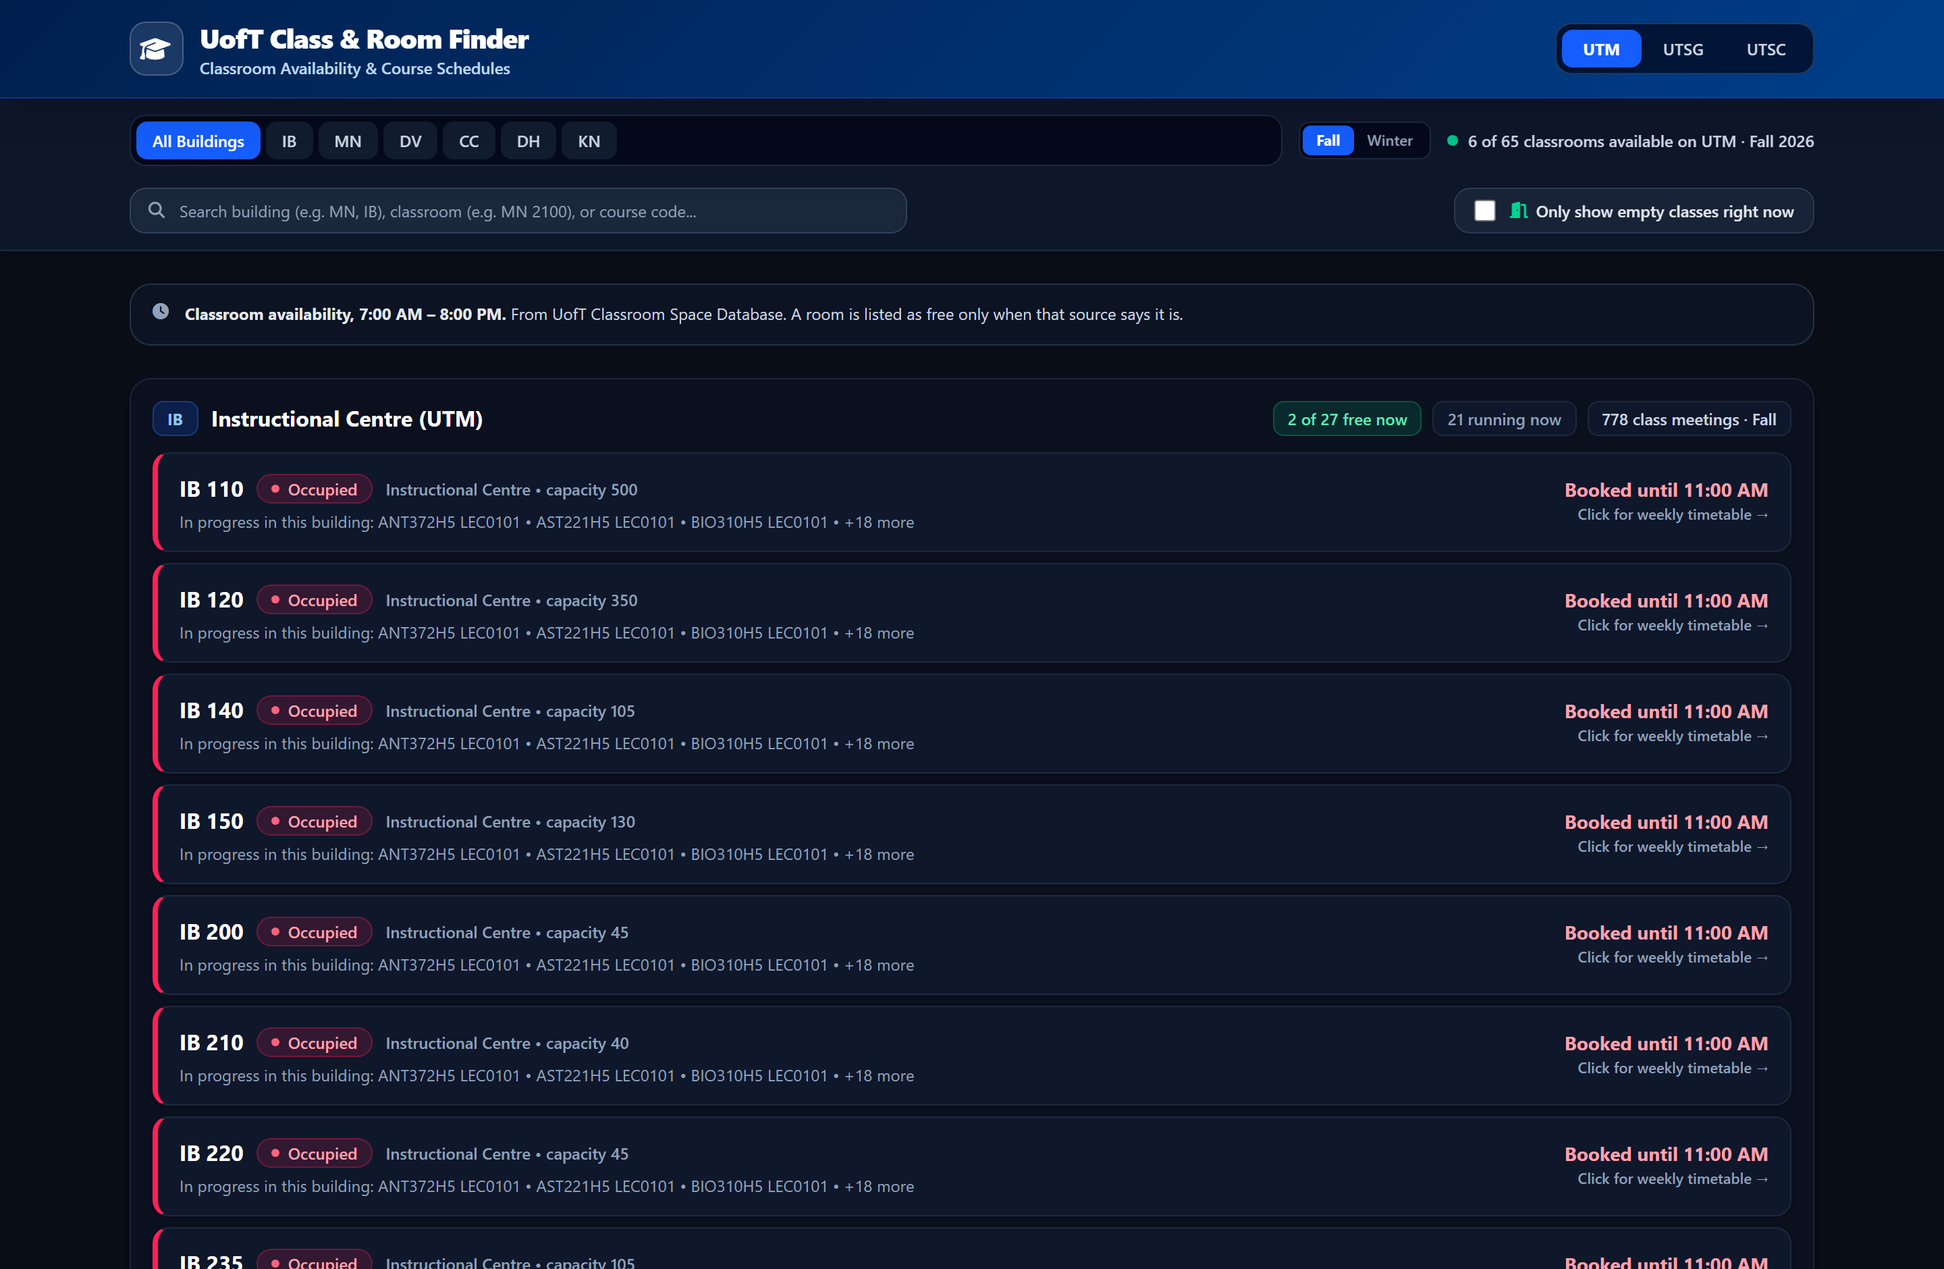
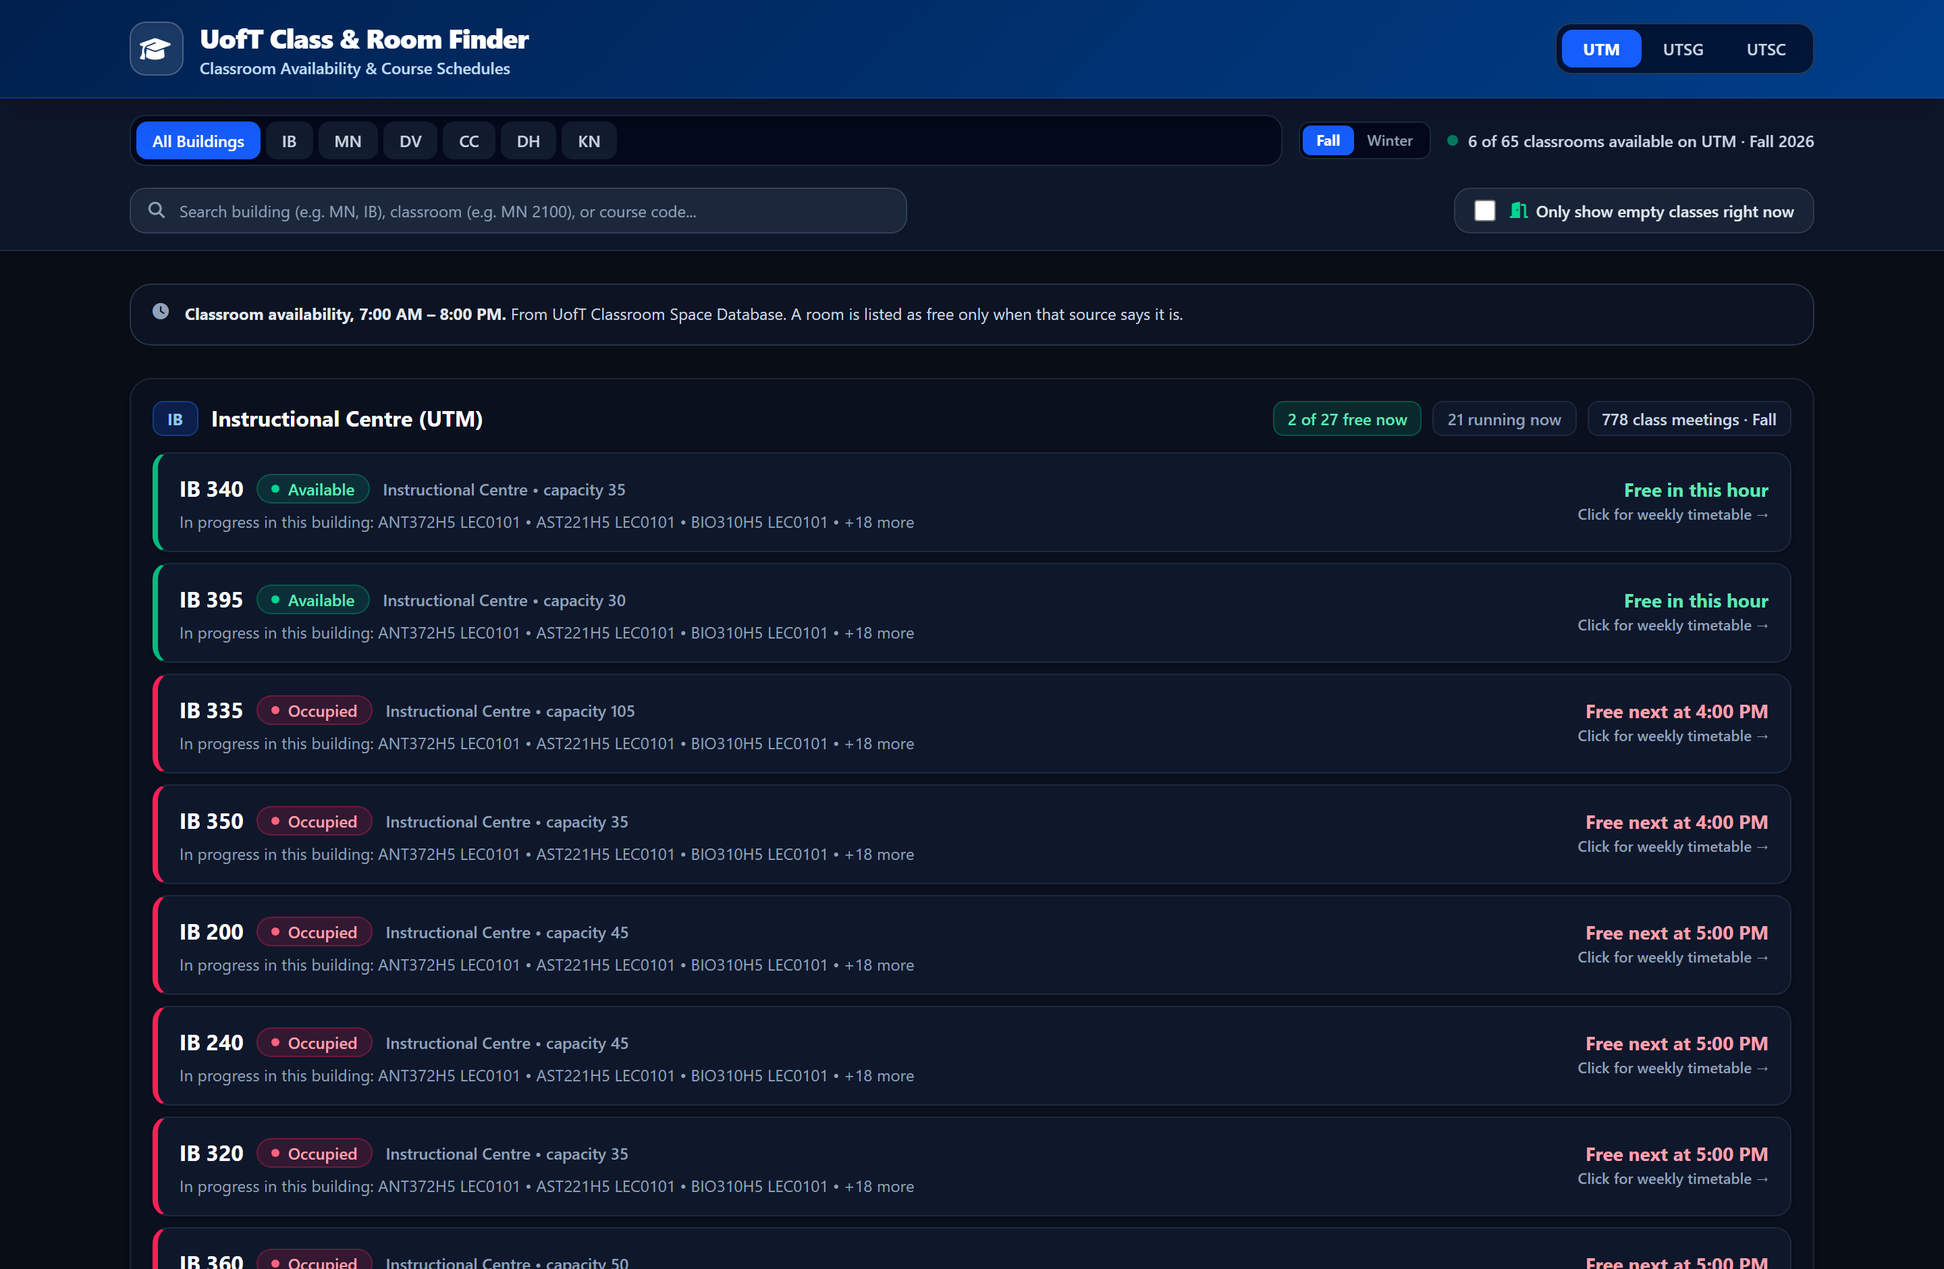
feat: say when a room is free next, and order the rooms by it
"Booked until 11:00 AM" was wrong. It named the end of the current hour,
not the time the room actually frees: a room booked from ten until one
read as though it were free at eleven. The occupancy is published hour by
hour, so the time the room is free again is known, and it is the useful
one - it is how long a student waits.

A busy room now says "Free next at 4:00 PM", and a room with no free hour
left in the day says so rather than naming a time that never comes.

The rooms are ordered by the same fact: the one that is free now comes
first, then the one that frees soonest, then the rooms with no known free
hour left in the day. The sort is stable, so rooms that free at the same
time keep their order.

The scan steps over hours the snapshot does not carry rather than claiming
them: an hour the source says nothing about is unknown, and unknown is
never free.

121 tests: 47 pytest, 53 Vitest, 21 Playwright.

diff --git a/src/components/lib/schedule.ts b/src/components/lib/schedule.ts
@@ -277,6 +277,33 @@ export function roomStateAt(
   return busy ? "busy" : "free";
 }
 
+/**
+ * The next hour, at or after `hour`, in which the room is known to be free.
+ *
+ * The occupancy is published hour by hour, so a room that is not listed as
+ * free in an hour is booked in it. The scan stays inside the day the
+ * snapshot covers, and it steps over hours the snapshot does not carry:
+ * an hour the source says nothing about is unknown, and unknown is never
+ * free.
+ */
+export function nextFreeHourAt(
+  room: Room,
+  day: number,
+  hour: number,
+): number | null {
+  const hours = room.occupancy?.[String(day)];
+  if (!hours) return null;
+  const published = Object.keys(hours)
+    .map(Number)
+    .filter((value) => Number.isFinite(value))
+    .sort((a, b) => a - b);
+  for (const candidate of published) {
+    if (candidate < hour) continue;
+    if (hours[String(candidate)] === false) return candidate;
+  }
+  return null;
+}
+
 export function roomStatusAt(
   room: Room,
   ctx: TimeContext,
@@ -291,17 +318,33 @@ export function roomStatusAt(
       nextFreeText: "Not published",
       subText: "This hour is outside the space database snapshot",
       busyUntil: null,
+      nextFreeAt: null,
     };
   }
 
   if (state === "busy") {
-    const busyUntil = minutesToTime((hour + 1) * 60);
+    // The hour ending is not the same thing as the room becoming free: a
+    // room booked from nine to one is not free at ten. The time the room
+    // is actually free again is the useful one.
+    const freeHour = nextFreeHourAt(room, ctx.uoftDay, hour);
+    if (freeHour === null) {
+      return {
+        state,
+        statusTitle: "Occupied",
+        nextFreeText: "No free hour left today",
+        subText: "The room is booked for every hour the source publishes today",
+        busyUntil: null,
+        nextFreeAt: null,
+      };
+    }
+    const freeAt = minutesToTime(freeHour * 60);
     return {
       state,
       statusTitle: "Occupied",
-      nextFreeText: `Booked until ${format12Hour(busyUntil)}`,
+      nextFreeText: `Free next at ${format12Hour(freeAt)}`,
       subText: "The room is not listed as available in this hour",
-      busyUntil,
+      busyUntil: freeAt,
+      nextFreeAt: freeHour * 60,
     };
   }
 
@@ -311,7 +354,26 @@ export function roomStatusAt(
     nextFreeText: "Free in this hour",
     subText: "The room is listed as available in this hour",
     busyUntil: null,
+    nextFreeAt: hour * 60,
   };
+}
+
+/**
+ * The rooms, the one that frees soonest first.
+ *
+ * A room that is free now comes first, then the room that becomes free
+ * soonest, then the rooms with no known free hour left in the day. The
+ * sort is stable, so rooms that free at the same time keep their order.
+ */
+export function sortRoomsByNextFree(rooms: Room[], ctx: TimeContext): Room[] {
+  return [...rooms].sort((a, b) => {
+    const left = roomStatusAt(a, ctx).nextFreeAt;
+    const right = roomStatusAt(b, ctx).nextFreeAt;
+    if (left === null && right === null) return 0;
+    if (left === null) return 1;
+    if (right === null) return -1;
+    return left - right;
+  });
 }
 
 /** The next class scheduled in a building, for the given day. */

diff --git a/tests/unit/schedule.test.ts b/tests/unit/schedule.test.ts
@@ -18,10 +18,11 @@ import {
   roomStateAt,
   roomStatusAt,
   searchCourseCodes,
+  sortRoomsByNextFree,
   termOfSession,
   timeToMinutes,
 } from "@/components/lib/schedule";
-import { sampleClasses, sampleRooms } from "../fixtures/sample-dataset";
+import { makeRoom, sampleClasses, sampleRooms } from "../fixtures/sample-dataset";
 
 describe("time helpers", () => {
   it("converts a clock time to minutes", () => {
@@ -200,6 +201,64 @@ describe("room availability", () => {
     expect(status.state).toBe("unknown");
     expect(status.statusTitle).toBe("Unknown");
     expect(status.nextFreeText).toMatch(/not published/i);
+  });
+
+  it("says when a busy room is free next, not merely when the hour ends", () => {
+    // Booked from 09:00 through 13:00, free from 14:00.
+    const booked = makeRoom({
+      occupancy: {
+        1: { 9: true, 10: true, 11: true, 12: true, 13: true, 14: false },
+      },
+    });
+    const status = roomStatusAt(
+      booked,
+      getLiveTimeContext(new Date(2026, 9, 19, 9, 0)),
+    );
+    expect(status.state).toBe("busy");
+    expect(status.nextFreeText).toBe("Free next at 2:00 PM");
+    expect(status.nextFreeAt).toBe(14 * 60);
+  });
+
+  it("says so when a busy room has no free hour left in the day", () => {
+    const booked = makeRoom({
+      occupancy: { 1: { 9: true, 10: true, 11: true } },
+    });
+    const status = roomStatusAt(
+      booked,
+      getLiveTimeContext(new Date(2026, 9, 19, 9, 0)),
+    );
+    expect(status.nextFreeText).toMatch(/no free hour/i);
+    expect(status.nextFreeAt).toBeNull();
+  });
+
+  it("puts the room that frees soonest first", () => {
+    const rooms = [
+      makeRoom({ room: "MN 3000", occupancy: { 1: { 9: true, 10: true, 16: false } } }),
+      makeRoom({ room: "MN 2000", occupancy: { 1: { 9: true, 10: false } } }),
+      makeRoom({ room: "MN 4000", occupancy: { 1: { 9: false, 10: false } } }),
+    ];
+    const sorted = sortRoomsByNextFree(
+      rooms,
+      getLiveTimeContext(new Date(2026, 9, 19, 9, 0)),
+    );
+    // Free now, then free at 10:00, then free at 16:00.
+    expect(sorted.map((room) => room.room)).toEqual([
+      "MN 4000",
+      "MN 2000",
+      "MN 3000",
+    ]);
+  });
+
+  it("puts a room with no known free hour last", () => {
+    const rooms = [
+      makeRoom({ room: "MN 3000", occupancy: { 1: { 9: true, 10: true } } }),
+      makeRoom({ room: "MN 2000", occupancy: { 1: { 9: false, 10: false } } }),
+    ];
+    const sorted = sortRoomsByNextFree(
+      rooms,
+      getLiveTimeContext(new Date(2026, 9, 19, 9, 0)),
+    );
+    expect(sorted.map((room) => room.room)).toEqual(["MN 2000", "MN 3000"]);
   });
 });
 

diff --git a/tests/e2e/app.spec.ts b/tests/e2e/app.spec.ts
@@ -62,6 +62,23 @@ test.describe("class & room finder", () => {
     await expect(page.getByText(/Room: MN \d/)).toHaveCount(0);
   });
 
+  test("the rooms that free soonest come first, and say when they free", async ({
+    page,
+  }) => {
+    await page.clock.setFixedTime(new Date("2026-10-19T10:00:00"));
+    await page.goto("/");
+
+    // The two Instructional Centre rooms that are free at 10:00 come
+    // before the ones that are booked.
+    const rooms = page.locator("button").filter({ hasText: /^IB \d+/ });
+    await expect(rooms.first()).toContainText(/IB 340|IB 395/);
+
+    // A booked room says when it is free again, not merely when the hour
+    // ends: IB 335 is booked from 10:00 and free from 16:00.
+    await expect(page.getByText("Free next at 4:00 PM").first()).toBeVisible();
+    await expect(page.getByText(/Booked until/i)).toHaveCount(0);
+  });
+
   test("St. George lists the classrooms the University publishes", async ({
     page,
   }) => {

diff --git a/tests/fixtures/sample-dataset.ts b/tests/fixtures/sample-dataset.ts
@@ -24,7 +24,8 @@ function meeting(overrides: Partial<ClassMeeting> = {}): ClassMeeting {
   };
 }
 
-function room(overrides: Partial<Room> = {}): Room {
+/** Builds a UTM classroom, for the tests that need a specific occupancy. */
+export function makeRoom(overrides: Partial<Room> = {}): Room {
   return {
     room: "MN 2100",
     building: "MN",
@@ -92,9 +93,9 @@ export const sampleDatasets: Record<string, Dataset> = {
       weekEnd: "2026-10-23",
     },
     rooms: [
-      room(),
-      room({ room: "MN 3200", occupancy: { 1: { 9: false, 12: false } } }),
-      room({ room: "IB 379", building: "IB", buildingName: "Instructional Centre" }),
+      makeRoom(),
+      makeRoom({ room: "MN 3200", occupancy: { 1: { 9: false, 12: false } } }),
+      makeRoom({ room: "IB 379", building: "IB", buildingName: "Instructional Centre" }),
     ],
     classes: [
       meeting(),

diff --git a/src/components/ClassFinder.tsx b/src/components/ClassFinder.tsx
@@ -16,6 +16,7 @@ import {
   publishedHours,
   roomStatusAt,
   searchCourseCodes,
+  sortRoomsByNextFree,
   timeToMinutes,
 } from "./lib/schedule";
 import type {
@@ -666,7 +667,12 @@ function ListView({
 
       {buildings.map((b) => {
         const buildingClasses = classesForBuilding(b.code);
-        const rooms = campusRooms.filter((room) => room.building === b.code);
+        // The rooms a student would walk to first: the one that is free
+        // now, then the one that frees soonest.
+        const rooms = sortRoomsByNextFree(
+          campusRooms.filter((room) => room.building === b.code),
+          ctx,
+        );
         const classrooms = data.classrooms.filter(
           (classroom) => classroom.building === b.code,
         );

diff --git a/src/components/lib/types.ts b/src/components/lib/types.ts
@@ -109,6 +109,11 @@ export interface RoomStatus {
   subText: string;
   /** Hour the room is booked until, when known. */
   busyUntil: string | null;
+  /**
+   * Minutes since midnight at which the room is next free, or null when
+   * there is no known free hour left in the day. Rooms are ordered by it.
+   */
+  nextFreeAt: number | null;
 }
 
 export interface ScheduleBlock {

diff --git a/docs/REPORT.md b/docs/REPORT.md
@@ -39,7 +39,7 @@ the one it replaced, and that makes a claim a reviewer can check.
 | Classrooms | 65 UTM and 50 St. George classrooms with published per-hour occupancy, plus 334 St. George and 71 Scarborough classrooms with their capacities |
 | Invented values | **0** |
 | First load | **83 KB** (was 8.3 MB) |
-| Tests | 116 across three layers, plus 4 automated accessibility checks |
+| Tests | 121 across three layers, plus 4 automated accessibility checks |
 
 ---
 
@@ -342,6 +342,8 @@ Result: **21,238 of 21,408** meetings carry a real building name.
 |---|---|
 | The API lists no room | Shows the building, and says so once in the course view |
 | The snapshot does not carry an hour | Shows **unknown**, never "free" |
+| A room is booked for several hours | Says **when it is free again**, not when the hour ends: "Free next at 4:00 PM", never "Booked until 11:00 AM" |
+| A room has no free hour left in the day | Says so, instead of a time that never comes |
 | The current hour is outside the published band | One banner says so, once, instead of 65 cards reading "unknown" |
 | A building has no published name | Shows the code, not a guess |
 | The campus has no occupancy data | Lists the classrooms that are published, and how busy each building is |
@@ -374,11 +376,11 @@ specific.
 | Layer | Tests | Protects | Network |
 |---|---:|---|---|
 | **pytest** | 47 | The data contract: pagination completeness, the code and session rules, cancelled sections, the Metis weekday, the missing hour, the rooms-only rebuild, the per-campus split, the filter funnel | none — fixtures are committed |
-| **Vitest** | 50 | The application: time handling, term filtering, search, room states, the timetable layout, and the components — including "no invented room numbers" | none |
-| **Playwright** | 20 | The shipped product: campus tabs, search, the weekly timetable, the classroom view, the St. George and Scarborough classroom inventories, the St. George availability, the API payload, keyboard operation | none — a production build, served locally |
+| **Vitest** | 53 | The application: time handling, term filtering, search, room states, the timetable layout, and the components — including "no invented room numbers" | none |
+| **Playwright** | 21 | The shipped product: campus tabs, search, the weekly timetable, the classroom view, the St. George and Scarborough classroom inventories, the St. George availability, the order the rooms are in, the API payload, keyboard operation | none — a production build, served locally |
 | **axe-core** | 4 views | WCAG 2.1 AA violations in the classroom list, a course timetable, a classroom timetable and St. George | none |
 
-**116 tests, none of which touches the University of Toronto's servers.** CI
+**121 tests, none of which touches the University of Toronto's servers.** CI
 runs them in four jobs; the data-verification and payload-budget jobs need
 no network either.
 
@@ -441,8 +443,8 @@ Every figure in this report can be checked:
 npm run data:verify     # the dataset's invariants
 npm run data:size       # the payload budget
 npm run scraper:test    # 47 tests, offline
-npm test                # 50 tests, offline
-npm run test:e2e        # 20 tests, against a local production build
+npm test                # 53 tests, offline
+npm run test:e2e        # 21 tests, against a local production build
 ```
 
 `data:verify` re-reads the per-campus files, unions them, and checks that

diff --git a/README.md b/README.md
@@ -9,7 +9,7 @@ room number that the University has not published.**
 [![React](https://img.shields.io/badge/React-19-087ea4?logo=react&logoColor=087ea4)](https://react.dev)
 [![Tailwind](https://img.shields.io/badge/Tailwind-4-38bdf8?logo=tailwindcss)](https://tailwindcss.com)
 [![Python](https://img.shields.io/badge/Python-3.10--3.13-3776ab?logo=python)](https://python.org)
-[![Tests](https://img.shields.io/badge/tests-116%20passing-brightgreen)](#testing)
+[![Tests](https://img.shields.io/badge/tests-121%20passing-brightgreen)](#testing)
 [![License](https://img.shields.io/badge/license-MIT-blue)](LICENSE)
 
 </div>
@@ -74,7 +74,7 @@ how many classes are running in each building right now.
 | Classrooms | 65 UTM and 50 St. George classrooms with published per-hour occupancy, plus 334 St. George and 71 Scarborough classrooms with their capacities |
 | Invented values | **0** |
 | First load | **83 KB** (was 8.3 MB) |
-| Tests | 116 across three layers, plus 4 automated accessibility checks |
+| Tests | 121 across three layers, plus 4 automated accessibility checks |
 
 ## The part that matters: it does not make things up
 
@@ -228,8 +228,8 @@ scraper/
     cli.py                  # `build` and `verify`
   tests/                    # 47 pytest tests + committed API fixtures
 tests/
-  unit/                     # 49 Vitest tests
-  e2e/                      # 20 Playwright tests
+  unit/                     # 53 Vitest tests
+  e2e/                      # 21 Playwright tests
 data/
   campus/<KEY>.json         # the dataset, one file per campus key
   rooms/<KEY>.json          # the classrooms with their occupancy, and where
@@ -256,7 +256,7 @@ crosses 150 KB, so the win cannot quietly be given back.
 **Everything that can be a pure function is one.** Time handling, term
 filtering, search, room-availability states and the timetable layout all live
 in `src/components/lib/schedule.ts`, which touches no browser API. That is
-why 49 of the 116 tests are fast and deterministic.
+why 53 of the 121 tests are fast and deterministic.
 
 **The data is verified, not trusted.** `npm run data:verify` re-checks the
 committed dataset's invariants - that the per-campus files add up to the
@@ -267,8 +267,8 @@ publish, that there are no duplicates. It runs in CI.
 
 ```bash
 npm run scraper:test   # 47 pytest  - saved API fixtures, no network
-npm test               # 49 Vitest  - pure logic + React components
-npm run test:e2e       # 20 Playwright - against the production build
+npm test               # 53 Vitest  - pure logic + React components
+npm run test:e2e       # 21 Playwright - against the production build
 npm run data:verify    # the committed dataset's invariants
 npm run data:size      # the gzipped payload budget
 ```

diff --git a/CHANGELOG.md b/CHANGELOG.md
@@ -61,9 +61,17 @@ adheres to [Semantic Versioning](https://semver.org/spec/v2.0.0.html).
   sentence 65 times on one screen, which reads as an error rather than as a
   fact about the source. It is said once now, in the banner and the course
   view, and a room is shown only when the source has one.
-- **The published band is described honestly.** "7:00 AM - 9:00 PM" claimed
-  the 13:00 hour the space database omits. It reads "7:00 AM - 12:00 PM and
-  2:00 PM - 8:00 PM" now.
+- **The published band is described honestly.** It reads "7:00 AM - 8:00 PM"
+  now - one continuous run, because the 1 PM hole was in the capture and not
+  in the source. Before that fix it had to be split around a gap that was
+  never real.
+- **A busy room says when it is free next.** "Booked until 11:00 AM" was
+  wrong: it named the end of the current hour, not the time the room
+  actually frees. A room booked from ten to one reads "Free next at 1:00 PM",
+  and a room with no free hour left in the day says so.
+- **The rooms are ordered by when they free.** The one that is free now
+  comes first, then the one that frees soonest, then the rooms with no
+  known free hour left in the day.
 - **The snapshot date is dated once**, in the footer, instead of on every
   view.
 - **How busy every building is right now**, on every campus, with the
@@ -79,7 +87,7 @@ adheres to [Semantic Versioning](https://semver.org/spec/v2.0.0.html).
 
 ### Engineering
 
-- 116 tests across three layers: 47 pytest, 49 Vitest, 20 Playwright.
+- 121 tests across three layers: 47 pytest, 53 Vitest, 21 Playwright.
 
 ## [0.3.0] — 2026-10-20
 

diff --git a/docs/ARCHITECTURE.md b/docs/ARCHITECTURE.md
@@ -184,11 +184,11 @@ the source it was given rather than a name it invented.
 
 ```
                  ┌───────────────────────────┐
-                 │  Playwright · 20 tests    │  the shipped product
+                 │  Playwright · 21 tests    │  the shipped product
                  │  + axe-core · 4 views     │
                  └───────────────────────────┘
                  ┌───────────────────────────┐
-                 │  Vitest · 49 tests        │  logic and components
+                 │  Vitest · 53 tests        │  logic and components
                  └───────────────────────────┘
                  ┌───────────────────────────┐
                  │  pytest · 47 tests        │  the data contract
